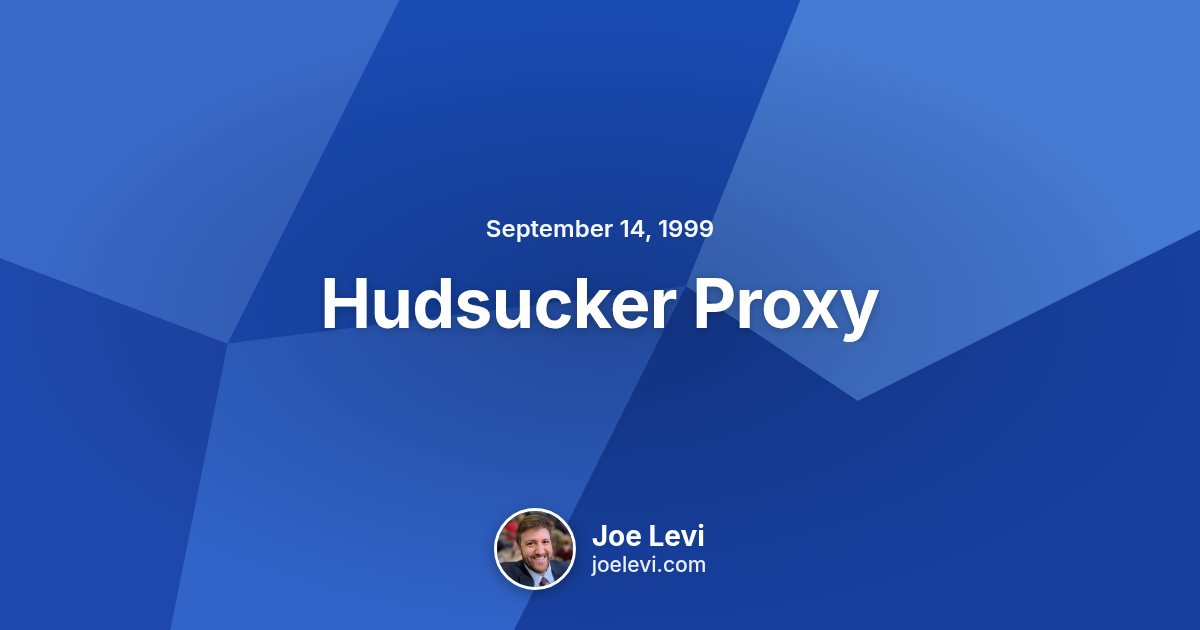
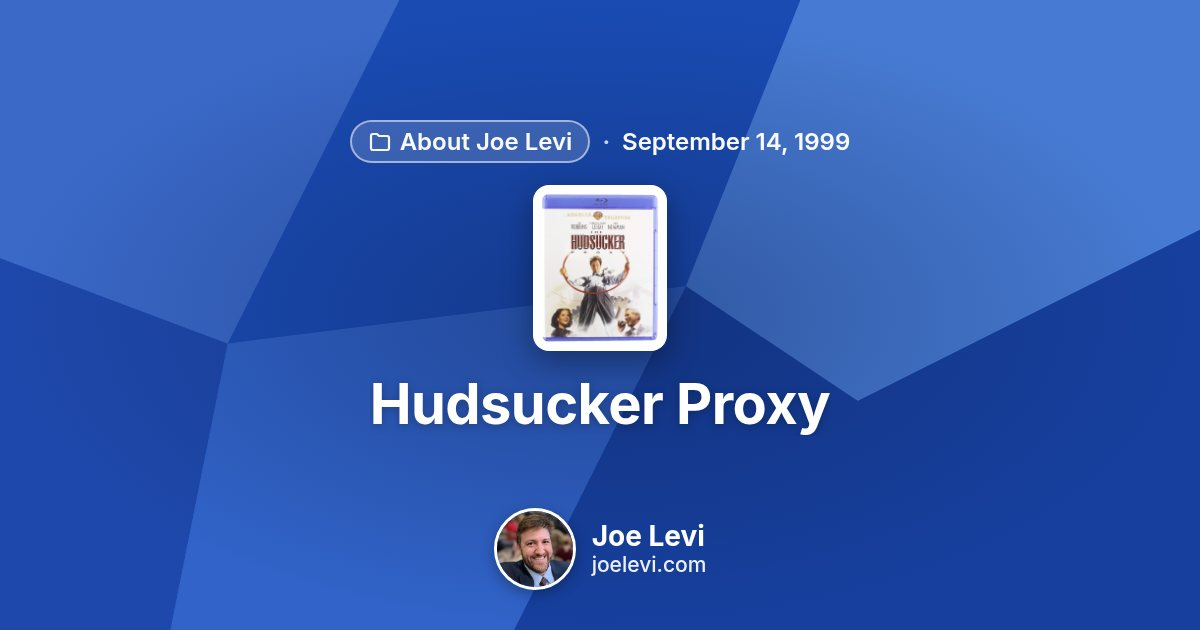
Rebuild parity: drop stale duplicate-prefix descriptions on 3 posts, re-render Hudsucker share graphic with its category, collapse llms.txt blank lines

Changed region(s): [[0.2467, 0.181, 0.74, 0.6937]]

diff --git a/blog/lifetime-products-and-why-they-chose-to-move-to-microsoft-exchange-server-2010/index.html b/blog/lifetime-products-and-why-they-chose-to-move-to-microsoft-exchange-server-2010/index.html
@@ -10,14 +10,14 @@
 	<meta name="robots" content="index, follow, archive" />
 	<meta name="theme-color" content="#2F6FED" />
 	<meta name="author" content="Joe Levi" />
-	<meta name="description" content="Lifetime Products and why they chose to move to Microsoft Exchange Server 2010 (November 5, 2009): Everyone who follows my blog knows that I love to live on…" />
+	<meta name="description" content="Everyone who follows my blog knows that I love to live on the cutting edge of technology. I’ve been running Windows 7 at home for the last several months, I…" />
 	<meta name="keywords" content="Joe Levi, articles, blog, Lifetime Products and why they chose to move to Microsoft Exchange Server 2010" />
 	<link rel="describedby" href="/llms.txt" />
 	<link rel="canonical" href="https://www.joelevi.com/blog/lifetime-products-and-why-they-chose-to-move-to-microsoft-exchange-server-2010/" />
 	<meta property="og:type" content="article" />
 	<meta property="og:site_name" content="Joe Levi" />
 	<meta property="og:title" content="Lifetime Products and why they chose to move to Microsoft Exchange Server 2010 — Joe Levi" />
-	<meta property="og:description" content="Lifetime Products and why they chose to move to Microsoft Exchange Server 2010 (November 5, 2009): Everyone who follows my blog knows that I love to live on…" />
+	<meta property="og:description" content="Everyone who follows my blog knows that I love to live on the cutting edge of technology. I’ve been running Windows 7 at home for the last several months, I…" />
 	<meta property="og:image" content="https://www.joelevi.com/blog/media/og/lifetime-products-and-why-they-chose-to-move-to-microsoft-exchange-server-2010.jpg" />
 	<meta property="og:image:alt" content="Lifetime Products and why they chose to move to Microsoft Exchange Server 2010" />
 	<meta property="og:locale" content="en_US" />
@@ -28,7 +28,7 @@
 	<meta property="article:modified_time" content="2009-11-05T11:23:32" />
 	<meta name="twitter:card" content="summary_large_image" />
 	<meta name="twitter:title" content="Lifetime Products and why they chose to move to Microsoft Exchange Server 2010 — Joe Levi" />
-	<meta name="twitter:description" content="Lifetime Products and why they chose to move to Microsoft Exchange Server 2010 (November 5, 2009): Everyone who follows my blog knows that I love to live on…" />
+	<meta name="twitter:description" content="Everyone who follows my blog knows that I love to live on the cutting edge of technology. I’ve been running Windows 7 at home for the last several months, I…" />
 	<meta name="twitter:image" content="https://www.joelevi.com/blog/media/og/lifetime-products-and-why-they-chose-to-move-to-microsoft-exchange-server-2010.jpg" />
 	<meta name="twitter:image:alt" content="Lifetime Products and why they chose to move to Microsoft Exchange Server 2010" />
 	<title>Lifetime Products and why they chose to move to Microsoft Exchange Server 2010 — Joe Levi</title>

diff --git a/blog/google-recognizes-their-evil-deeds-and-goes-into-damage-control-mode/index.html b/blog/google-recognizes-their-evil-deeds-and-goes-into-damage-control-mode/index.html
@@ -10,14 +10,14 @@
 	<meta name="robots" content="index, follow, archive" />
 	<meta name="theme-color" content="#2F6FED" />
 	<meta name="author" content="Joe Levi" />
-	<meta name="description" content="Google Recognizes their Evil Deeds and goes into Damage-Control Mode (September 3, 2008): Google has recognized the error of their ways and is in the…" />
+	<meta name="description" content="Google has recognized the error of their ways and is in the process of back-peddling and down-playing the Chrome EULA. ( Read more ) Our pressure on them is…" />
 	<meta name="keywords" content="Joe Levi, articles, blog, Google Recognizes their Evil Deeds and goes into Damage-Control Mode" />
 	<link rel="describedby" href="/llms.txt" />
 	<link rel="canonical" href="https://www.joelevi.com/blog/google-recognizes-their-evil-deeds-and-goes-into-damage-control-mode/" />
 	<meta property="og:type" content="article" />
 	<meta property="og:site_name" content="Joe Levi" />
 	<meta property="og:title" content="Google Recognizes their Evil Deeds and goes into Damage-Control Mode — Joe Levi" />
-	<meta property="og:description" content="Google Recognizes their Evil Deeds and goes into Damage-Control Mode (September 3, 2008): Google has recognized the error of their ways and is in the…" />
+	<meta property="og:description" content="Google has recognized the error of their ways and is in the process of back-peddling and down-playing the Chrome EULA. ( Read more ) Our pressure on them is…" />
 	<meta property="og:image" content="https://www.joelevi.com/blog/media/og/google-recognizes-their-evil-deeds-and-goes-into-damage-control-mode.jpg" />
 	<meta property="og:image:alt" content="Google Recognizes their Evil Deeds and goes into Damage-Control Mode" />
 	<meta property="og:locale" content="en_US" />
@@ -28,7 +28,7 @@
 	<meta property="article:modified_time" content="2008-09-03T13:16:12" />
 	<meta name="twitter:card" content="summary_large_image" />
 	<meta name="twitter:title" content="Google Recognizes their Evil Deeds and goes into Damage-Control Mode — Joe Levi" />
-	<meta name="twitter:description" content="Google Recognizes their Evil Deeds and goes into Damage-Control Mode (September 3, 2008): Google has recognized the error of their ways and is in the…" />
+	<meta name="twitter:description" content="Google has recognized the error of their ways and is in the process of back-peddling and down-playing the Chrome EULA. ( Read more ) Our pressure on them is…" />
 	<meta name="twitter:image" content="https://www.joelevi.com/blog/media/og/google-recognizes-their-evil-deeds-and-goes-into-damage-control-mode.jpg" />
 	<meta name="twitter:image:alt" content="Google Recognizes their Evil Deeds and goes into Damage-Control Mode" />
 	<title>Google Recognizes their Evil Deeds and goes into Damage-Control Mode — Joe Levi</title>

diff --git a/blog/tough-economic-times/index.html b/blog/tough-economic-times/index.html
@@ -10,14 +10,14 @@
 	<meta name="robots" content="index, follow, archive" />
 	<meta name="theme-color" content="#2F6FED" />
 	<meta name="author" content="Joe Levi" />
-	<meta name="description" content="Tough Economic Times (February 23, 2009): Let’s face it, times are getting pretty tough. We’re officially in a recession, the current “Economic Stimulus…" />
+	<meta name="description" content="Let’s face it, times are getting pretty tough. We’re officially in a recession, the current “Economic Stimulus Package” hasn’t helped anybody yet…" />
 	<meta name="keywords" content="Joe Levi, articles, blog, Tough Economic Times" />
 	<link rel="describedby" href="/llms.txt" />
 	<link rel="canonical" href="https://www.joelevi.com/blog/tough-economic-times/" />
 	<meta property="og:type" content="article" />
 	<meta property="og:site_name" content="Joe Levi" />
 	<meta property="og:title" content="Tough Economic Times — Joe Levi" />
-	<meta property="og:description" content="Tough Economic Times (February 23, 2009): Let’s face it, times are getting pretty tough. We’re officially in a recession, the current “Economic Stimulus…" />
+	<meta property="og:description" content="Let’s face it, times are getting pretty tough. We’re officially in a recession, the current “Economic Stimulus Package” hasn’t helped anybody yet…" />
 	<meta property="og:image" content="https://www.joelevi.com/blog/media/og/tough-economic-times.jpg" />
 	<meta property="og:image:alt" content="Tough Economic Times" />
 	<meta property="og:locale" content="en_US" />
@@ -28,7 +28,7 @@
 	<meta property="article:modified_time" content="2009-02-23T19:49:00" />
 	<meta name="twitter:card" content="summary_large_image" />
 	<meta name="twitter:title" content="Tough Economic Times — Joe Levi" />
-	<meta name="twitter:description" content="Tough Economic Times (February 23, 2009): Let’s face it, times are getting pretty tough. We’re officially in a recession, the current “Economic Stimulus…" />
+	<meta name="twitter:description" content="Let’s face it, times are getting pretty tough. We’re officially in a recession, the current “Economic Stimulus Package” hasn’t helped anybody yet…" />
 	<meta name="twitter:image" content="https://www.joelevi.com/blog/media/og/tough-economic-times.jpg" />
 	<meta name="twitter:image:alt" content="Tough Economic Times" />
 	<title>Tough Economic Times — Joe Levi</title>
